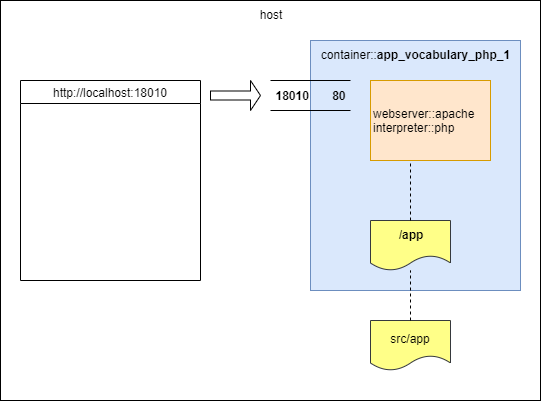
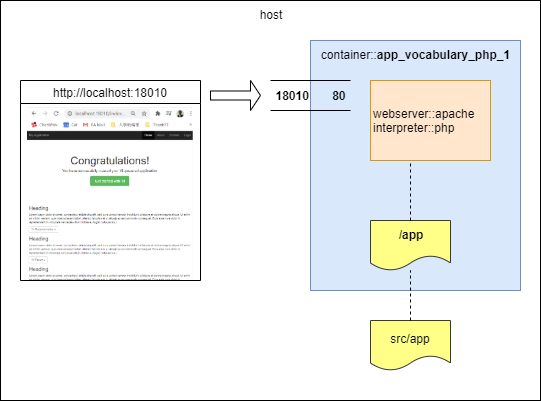
Update devEnv.md

Changed region(s): [[0.0591, 0.5087, 0.3549, 0.7182], [0.0296, 0.2693, 0.3549, 0.3591], [0.1183, 0.389, 0.2957, 0.4788]]

diff --git a/docs/02.ProjectPlan/devEnv.md b/docs/02.ProjectPlan/devEnv.md
@@ -3,7 +3,9 @@
 ## Run docker environtment
 
 Về docker, các bạn tự tìm hiểu.
-Chúng ta đã cài đặt docker trên máy host. Giờ chúng ta chỉ cần biết cách chạy docker để có môi trường chạy dự án.
+
+Chúng ta đã cài đặt docker trên máy host.
+Giờ chúng ta chỉ cần biết cách chạy docker để có môi trường chạy dự án.
 
 Mở shell tại thư mục app, chạy lệnh
 ```shell
@@ -11,7 +13,9 @@ docker-compose up -d
 ```
 
 Đợi một chốc để docker download `image` `yiisoftware/yii2-php:7.1-apache`, tạo `container` `app_vocabulary_php_1` và khởi động nó.
-Sau đó, chúng ta chỉ cần access vào URL `http://localhost:18010`.
+
+Sau đó, chúng ta chỉ cần access vào URL http://localhost:18010
+
 Tất cả những điều này được thực hiện do docker làm việc theo thiết lập trong [docker-compose.yml](../../src/app/docker-compose.yml)
 ```xml
 version: '2'
@@ -26,6 +30,31 @@ services:
 ```
 
 Khai báo này khiến docker tạo ra một kiến trúc như sau:
+
 ![docker](material/ProjectPlan.png)
 
 Reference: https://www.yiiframework.com/doc/guide/2.0/en/tutorial-docker
+
+Ban đầu, chương trình sẽ bị báo lỗi do ta không set `cookieValidationKey`. Mở file `app/config/web.php` và set một giá trị bất kỳ cho nó.
+
+Lúc này chương trình sẽ chạy, và cái ta nhìn thấy đầu tiên là
+
+![first screen](material/firstScreen.png)
+
+## Hãy thử nghịch một chút với yii2 application
+
+### Màn hình responsive
+
+* Thu nhỏ kích thước web browser, nó sẽ chuyển sang chế độ cho smartphone.
+* Dùng web browser debugger (bấm phím F12), rồi chọn chế độ màn hình smartphone.
+![responsive screen](material/responsiveScreen.png)
+
+### Đổi tên application
+
+Tên mặc định là `My Application`
+* Đổi tên trong `config/web.php`
+* Đổi text trong footer.
+
+### Thay đổi menu trong file `app/views/layout/main.php`
+
+### Đổi nội dung trang top trong `app/views/site/index.php`
